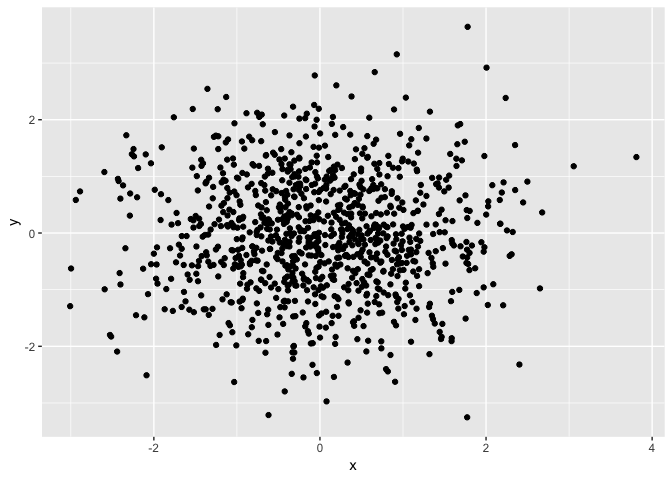
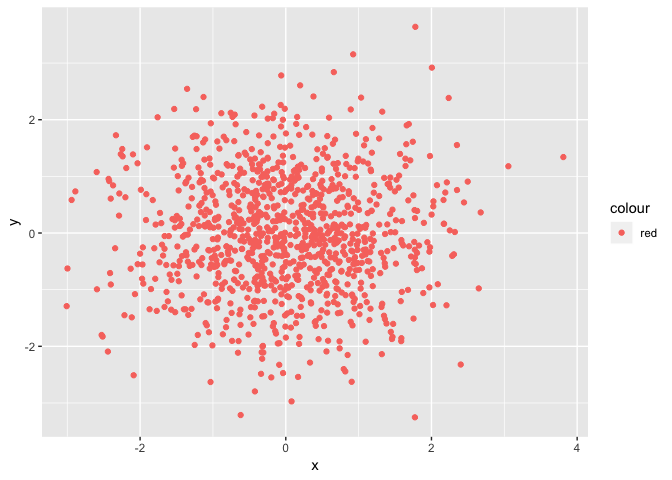
color changed

diff --git a/p8105_hw1_hn2339.md b/p8105_hw1_hn2339.md
@@ -8,15 +8,15 @@ sample_random = runif(10, min = 0, max = 5)
 sample_random
 ```
 
-    ##  [1] 0.2654798 2.3632851 1.8486671 1.6334915 0.3943670 1.7093506 1.0438649
-    ##  [8] 4.0264627 0.9712380 3.8000561
+    ##  [1] 1.1696601 0.3359296 3.5713594 4.7222590 3.1087460 4.1269970 1.0020090
+    ##  [8] 3.5510426 1.7921207 3.4549675
 
 ``` r
 # take the mean of the variable 
 mean(sample_random)
 ```
 
-    ## [1] 1.805626
+    ## [1] 2.683509
 
 ``` r
 # whether the elements from the sample > 2 
@@ -113,8 +113,10 @@ plot_df = tibble (
   typeof(vector_logical),
   median(x),
   mean(x),
+  numeric_vector = as.numeric(vector_logical),
+  factor_vector = as.factor(vector_logical)
 )
-ggplot(plot_df, aes(x = x, y =y)) + geom_point()
+ggplot(plot_df, aes(x = x, y = y, col = "red" )) + geom_point()
 ```
 
 ![](p8105_hw1_hn2339_files/figure-markdown_github/HW1_Question2-1.png)
